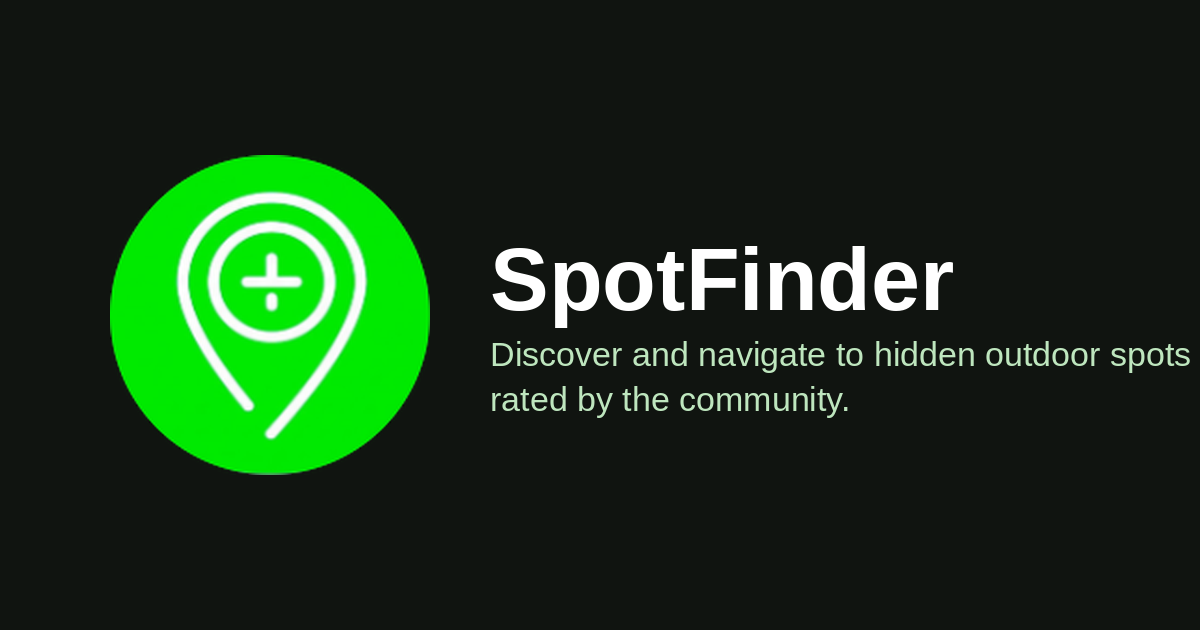
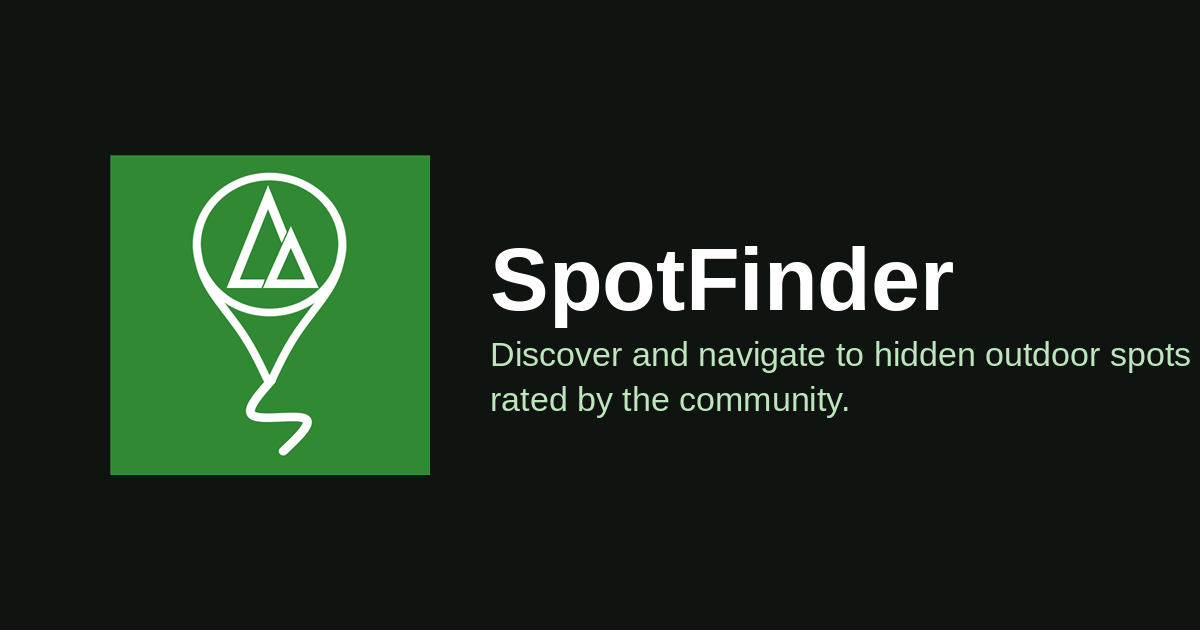
0.5.6

Changed region(s): [[0.0925, 0.2413, 0.37, 0.754]]

diff --git a/src/news/journal.css b/src/news/journal.css
@@ -11,7 +11,7 @@
 .journal-header{border-bottom:1px solid var(--rule)}
 .journal-nav{min-height:82px;display:flex;align-items:center;justify-content:space-between;gap:24px}
 .journal-brand{display:inline-flex;align-items:center;gap:11px;font-weight:700;font-size:19px;letter-spacing:0}
-.journal-brand-mark{width:29px;height:34px;color:var(--accent)}
+.journal-brand-mark{width:34px;height:34px;object-fit:contain}
 .journal-nav nav{display:flex;align-items:center;gap:32px;font-size:14px;font-weight:600}
 .journal-nav-current{border-bottom:1px solid var(--ink);padding-block:8px}
 .journal-map-link{border:1px solid var(--ink);padding:11px 16px;transition:background-color .18s,color .18s}
@@ -106,4 +106,5 @@
 @media(max-width:900px){.journal-story-lead .journal-story-link,.journal-first-edition{grid-template-columns:1fr}.journal-first-copy{display:grid;grid-template-columns:1fr 1fr;gap:0 24px}.journal-first-copy h2{grid-column:1}.journal-first-copy>p:not(.journal-edition-number){grid-column:1}.journal-edition-number{grid-column:1/-1;margin-bottom:22px}.journal-email{grid-column:2;grid-row:2/4;align-self:end;margin-top:0}.journal-story-lead>.journal-photo-credit{max-width:none}.journal-archive-grid{grid-template-columns:repeat(2,minmax(0,1fr))}}
 @media(max-width:620px){.journal-wrap{width:calc(100% - 36px)}.journal-nav{min-height:68px}.journal-nav nav{gap:16px;font-size:12px}.journal-brand{font-size:16px}.journal-brand-mark{width:25px;height:29px}.journal-map-link{padding:9px 10px}.journal-masthead{padding:32px 0 25px}.journal-masthead h1{font-size:clamp(65px,18vw,100px)}.journal-masthead>span{font-size:11px}.journal-first-edition{gap:35px}.journal-first-image .journal-photo{height:370px}.journal-first-copy{display:block}.journal-first-copy h2{font-size:54px}.journal-email{margin-top:38px}.journal-email-row{flex-direction:column}.journal-email button{height:45px}.journal-archive{padding-top:70px}.journal-archive-grid{grid-template-columns:1fr;gap:34px}.journal-story-horizontal{grid-column:auto}.journal-story-horizontal .journal-story-link{display:block}.journal-story-lead h2{font-size:49px}.journal-story-lead .journal-story-copy{padding-top:20px}.journal-article{margin-top:10px}.journal-article-heading h1{font-size:clamp(49px,11vw,69px)}.journal-hero{margin-bottom:43px}.journal-hero .journal-photo{aspect-ratio:4/5}.journal-hero figcaption{display:block}.journal-hero figcaption .journal-photo-credit{margin-top:4px}.journal-body{font-size:19px;line-height:1.64}.journal-body blockquote{margin-inline:0}.journal-on-map{display:block}.journal-on-map iframe{margin-top:24px}.journal-footer .journal-wrap{align-items:start;flex-direction:column}}
 @media(prefers-reduced-motion:reduce){.journal-app *{scroll-behavior:auto!important;transition:none!important;animation:none!important}}
+@media(max-width:620px){.journal-brand-mark{width:29px;height:29px}}
 @media(max-width:620px){.journal-hero figcaption{width:calc(100% - 36px)}}

diff --git a/src/news/Journal.jsx b/src/news/Journal.jsx
@@ -26,7 +26,7 @@ export { articlePath };
 function BrandHeader({ lang, active = false }) {
   const t = copy[lang];
   return <header className="journal-header"><div className="journal-wrap journal-nav">
-    <a className="journal-brand" href="/" aria-label="SpotFinder map"><svg className="journal-brand-mark" viewBox="0 0 36 42" role="img" aria-label="SpotFinder mark"><path d="M18 2.5C9.3 2.5 2.5 9.3 2.5 18c0 10.5 15.5 21.5 15.5 21.5S33.5 28.5 33.5 18C33.5 9.3 26.7 2.5 18 2.5Z" fill="none" stroke="currentColor" strokeWidth="3"/><circle cx="18" cy="18" r="5.5" fill="currentColor"/></svg><span>SpotFinder</span></a>
+    <a className="journal-brand" href="/" aria-label="SpotFinder map"><img className="journal-brand-mark" src="/icon-192.png" width="34" height="34" alt="" /><span>SpotFinder</span></a>
     <nav aria-label="Journal navigation"><a className={active ? 'journal-nav-current' : undefined} aria-current={active ? 'page' : undefined} href={landingPath(lang)}>{t.journal}</a><a className="journal-map-link" href="/">{t.map}</a></nav>
   </div></header>;
 }
